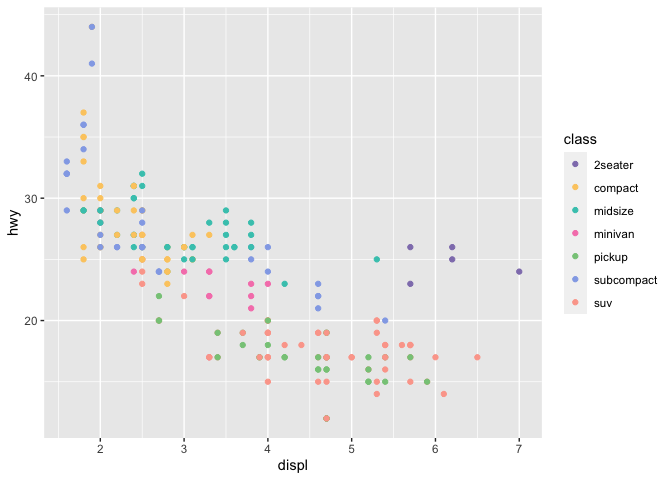
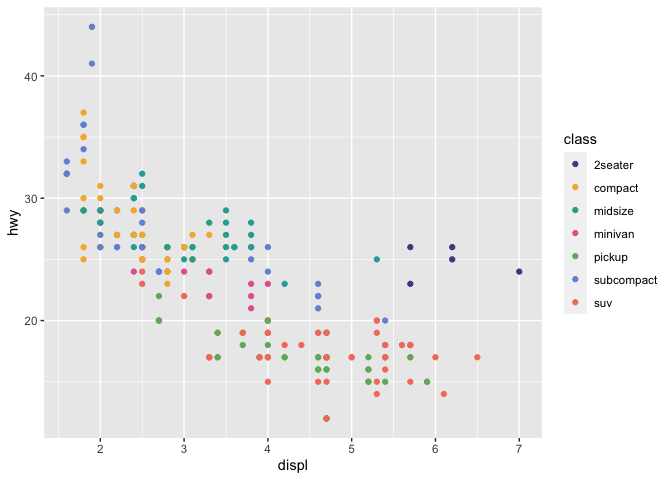
Use default level in README

diff --git a/README.md b/README.md
@@ -50,7 +50,7 @@ library("sagethemes")
 
 ggplot(mpg, aes(displ, hwy, colour = class)) +
   geom_point() +
-  scale_color_sage_d(level = "400")
+  scale_color_sage_d()
 ```
 
 <img src="man/figures/README-discrete-1.png" width="100%" />
